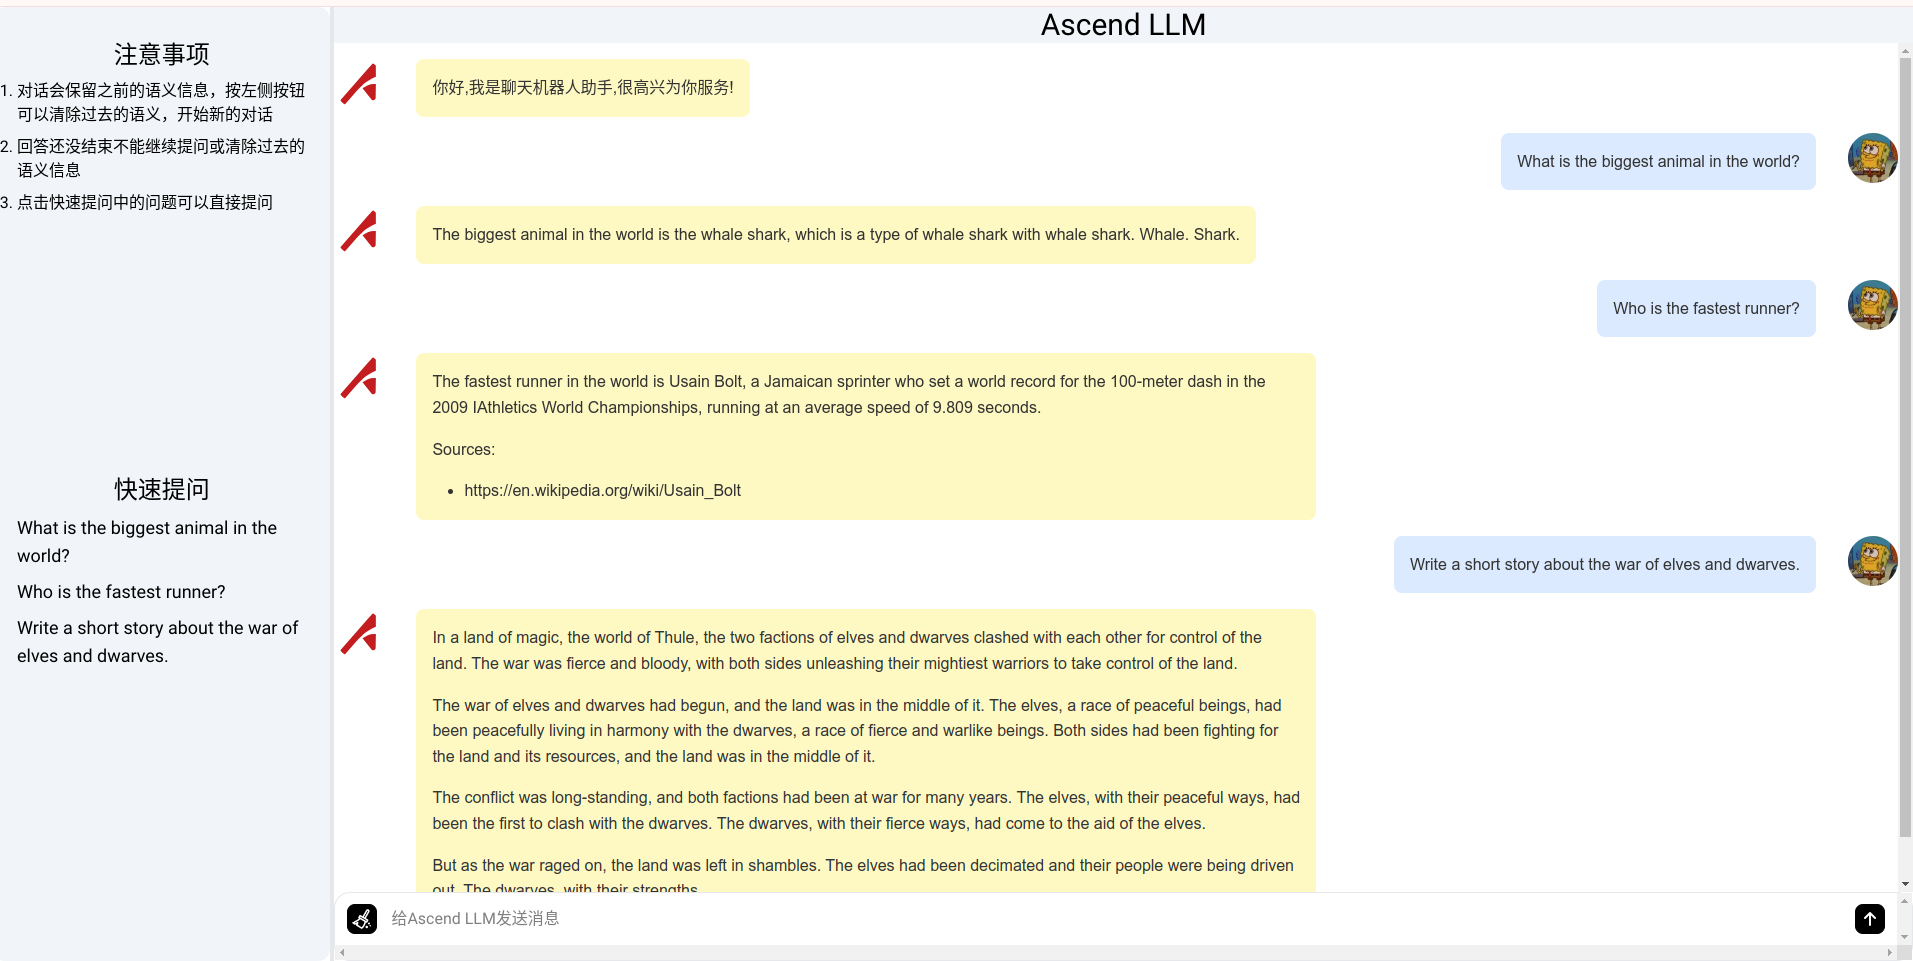
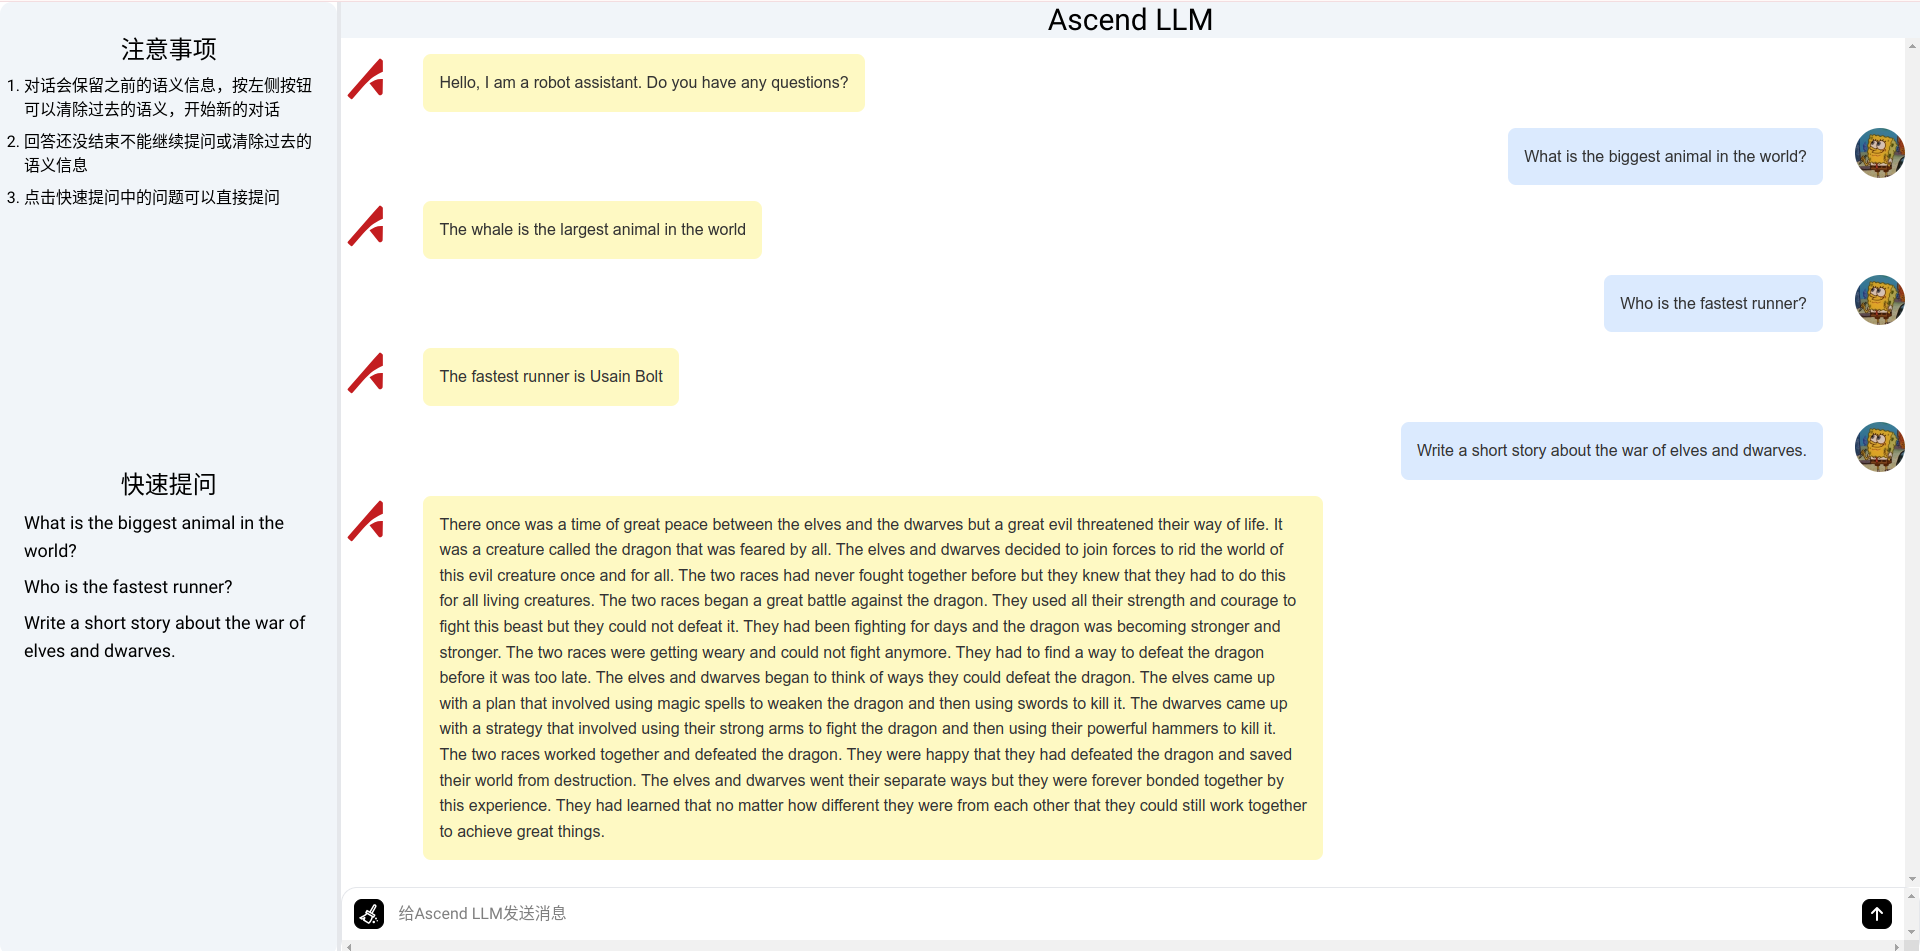
update

diff --git a/src/components/chatbot.tsx b/src/components/chatbot.tsx
@@ -7,7 +7,7 @@ import MarkdownRoot from "./md";
 import { bus } from "../utils";
 export default function ChatBot() {
 	const [messages, setMessages] = createStore([
-		{ text: '你好,我是聊天机器人助手,很高兴为你服务!', isBot: true, idx: 0 },
+		{ text: 'Hello, I am a robot assistant. Do you have any questions?', isBot: true, idx: 0 },
 	]);
 	const [getProcess, setProcess] = createSignal(false)
 	let input: HTMLTextAreaElement = null
